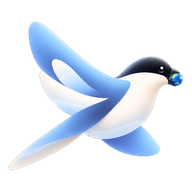
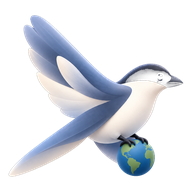
brand: 지오글 마크를 새 그림으로 교체 (지구본을 딛고 선 물까치)
보내 주신 그림으로 갈아 끼웠다. 앞 그림과 두 가지가 다르다 — 지구본을
**부리에 물지 않고 발로 딛고** 섰고, 날개가 처음부터 **청회색**이다.

**색 보정을 걸지 않았다.** 재 보니 채도 0.366 · 밝기 0.651(대표색 #667da6)
로, 이미 실제 물까치(Cyanopica cyanus) 날개에 맞는 값이다 — 지금까지
보정으로 억지로 맞춰 오던 자리(직전 배포본은 채도 0.490 · #7aadf3)를 그림
자체가 해결했다. 여기에 `recolor-magpie.py` 를 또 돌리면 두 번 낮추는 꼴이다.

**검은 바탕은 가장자리에서 시작하는 채우기로 지웠다.** 밝기만 보고 지우면
새의 검은 두건·부리·눈이 배경과 같은 어둠이라 함께 날아간다(마크를 바꿀
때마다 겪은 자리다). 두건은 배경과 이어져 있지 않아 채우기가 안 닿는다.
배경이 순수한 검정이라 가장자리 픽셀은 사실상 알파가 곱해진 값이어서,
밝기로 알파를 되찾고 색을 나눠 되돌렸다 — 그래야 밝은 화면에서 검은
테두리가 안 남는다. 배경의 미세한 잡티(밝기 4~5)는 바닥값 7 로 눌러
없앴다(안 누르면 알파가 10 쯤으로 살아남아 잉크 상자가 프레임 전체가 된다).

잉크 비율은 앞 마크와 같게 뒀다(긴 변이 캔버스의 0.910). 192·64 는 512 에서
줄여 만든다. 공유 카드(app.js)는 같은 파일을 쓰므로 저절로 따라온다.

빌드 스탬프 20260912a.

실제 브라우저로 확인 — 밝은 화면·어두운 화면 양쪽에서 랜딩 로고가 새
그림으로 나오고 4xx/5xx 없음. 이 마크가 쓰이는 가장 작은 크기인 64px
(파비콘)과 32px 에서 새와 지구본이 모두 또렷하다.

Claude-Session: https://claude.ai/code/session_01C5hwXkP7FNVyWqAUhqie3H

Changed region(s): [[0.0312, 0.0625, 0.9688, 0.9375], [0.7812, 0.5625, 0.8125, 0.5938], [0.2188, 0.4688, 0.25, 0.5]]

diff --git a/index.html b/index.html
@@ -13,10 +13,10 @@
 <link rel="stylesheet" crossorigin href="https://cdn.jsdelivr.net/gh/orioncactus/pretendard@v1.3.9/dist/web/static/pretendard.min.css">
 <link href="https://fonts.googleapis.com/css2?family=Space+Grotesk:wght@400;500;600;700&display=swap" rel="stylesheet">
 </noscript>
-<link rel="icon" href="img/magpie-64.png?v=20260910a">
-<link rel="apple-touch-icon" href="img/magpie-192.png?v=20260910a">
+<link rel="icon" href="img/magpie-64.png?v=20260912a">
+<link rel="apple-touch-icon" href="img/magpie-192.png?v=20260912a">
 <script>(function(){try{var m=localStorage.getItem('seji_theme')||(matchMedia('(prefers-color-scheme: light)').matches?'light':'dark');document.documentElement.dataset.theme=m;}catch(e){}})();</script>
-<link rel="stylesheet" href="css/main.css?v=20260910a">
+<link rel="stylesheet" href="css/main.css?v=20260912a">
 </head>
 <body>
 <button id="theme-toggle" type="button" title="화면 밝기 전환" onclick="toggleTheme()"></button>
@@ -28,7 +28,7 @@
       <path d="M-10 150 C 90 150 130 40 260 40 C 390 40 430 150 530 150"/>
     </svg>
     <div class="g3-lockup" aria-label="Geogl3">
-      <img class="g3-bird" src="img/magpie-512.png?v=20260910a" alt="" width="512" height="512" decoding="async"/>
+      <img class="g3-bird" src="img/magpie-512.png?v=20260912a" alt="" width="512" height="512" decoding="async"/>
       <div class="g3-logo">Geogl3</div>
     </div>
     <p class="ld-tag">See the world from above</p>
@@ -46,7 +46,7 @@
        예전에는 카드 안 "로그인하면…" 줄 **위**에 끼어 있어서, 세 사이트를 나란히
        놓으면 지오글만 브랜드가 본문 한복판에 뜬 것처럼 보였다. -->
   <footer class="ld-foot">
-    <a class="ld-brand" href="https://nepica.vercel.app" target="_blank" rel="noreferrer" aria-label="NEPICA 브랜드 사이트로 이동"><img src="img/nepica-64.png?v=20260910a" alt="" width="22" height="22" decoding="async"/><span>NEPICA</span></a>
+    <a class="ld-brand" href="https://nepica.vercel.app" target="_blank" rel="noreferrer" aria-label="NEPICA 브랜드 사이트로 이동"><img src="img/nepica-64.png?v=20260912a" alt="" width="22" height="22" decoding="async"/><span>NEPICA</span></a>
   </footer>
 
   <!-- 세부 옵션 시트 -->
@@ -4950,26 +4950,26 @@
     <button class="reb secondary" onclick="runPendingReset();document.getElementById('rbq-end').classList.remove('on')">다시 시작</button>
   </div>
 </div>
-<script src="js/data.js?v=20260910a"></script>
-<script src="js/rivers-data.js?v=20260910a"></script>
-<script src="js/climate-data.js?v=20260910a"></script>
-<script src="js/religion-pop-data.js?v=20260910a"></script>
-<script src="js/climate-map-data.js?v=20260910a"></script>
-<script src="js/app.js?v=20260910a"></script>
-<script src="js/climate.js?v=20260910a"></script>
-<script src="js/dict-data.js?v=20260910a"></script>
-<script src="js/flag-colors-data.js?v=20260910a"></script>
-<script src="js/flag-bg-data.js?v=20260910a"></script>
-<script src="js/wiki-style.js?v=20260910a"></script>
-<script src="js/dict.js?v=20260910a"></script>
-<script src="js/suteuk-data.js?v=20260910a"></script>
-<script src="js/suteuk.js?v=20260910a"></script>
-<script src="js/stat-data.js?v=20260910a"></script>
-<script src="js/stat.js?v=20260910a"></script>
+<script src="js/data.js?v=20260912a"></script>
+<script src="js/rivers-data.js?v=20260912a"></script>
+<script src="js/climate-data.js?v=20260912a"></script>
+<script src="js/religion-pop-data.js?v=20260912a"></script>
+<script src="js/climate-map-data.js?v=20260912a"></script>
+<script src="js/app.js?v=20260912a"></script>
+<script src="js/climate.js?v=20260912a"></script>
+<script src="js/dict-data.js?v=20260912a"></script>
+<script src="js/flag-colors-data.js?v=20260912a"></script>
+<script src="js/flag-bg-data.js?v=20260912a"></script>
+<script src="js/wiki-style.js?v=20260912a"></script>
+<script src="js/dict.js?v=20260912a"></script>
+<script src="js/suteuk-data.js?v=20260912a"></script>
+<script src="js/suteuk.js?v=20260912a"></script>
+<script src="js/stat-data.js?v=20260912a"></script>
+<script src="js/stat.js?v=20260912a"></script>
 <!-- ════════════════════════════════════════════════════════════
      계정 · 소셜로그인 · 랭킹 (Supabase) — 빌드/명령어 불필요, 이 파일만으로 동작
      ▼▼▼ 여기 두 줄만 본인 Supabase 값으로 바꾸면 끝 ▼▼▼ -->
-<script type="module" src="js/account.js?v=20260910a"></script>
+<script type="module" src="js/account.js?v=20260912a"></script>
 
 </body>
 </html>
